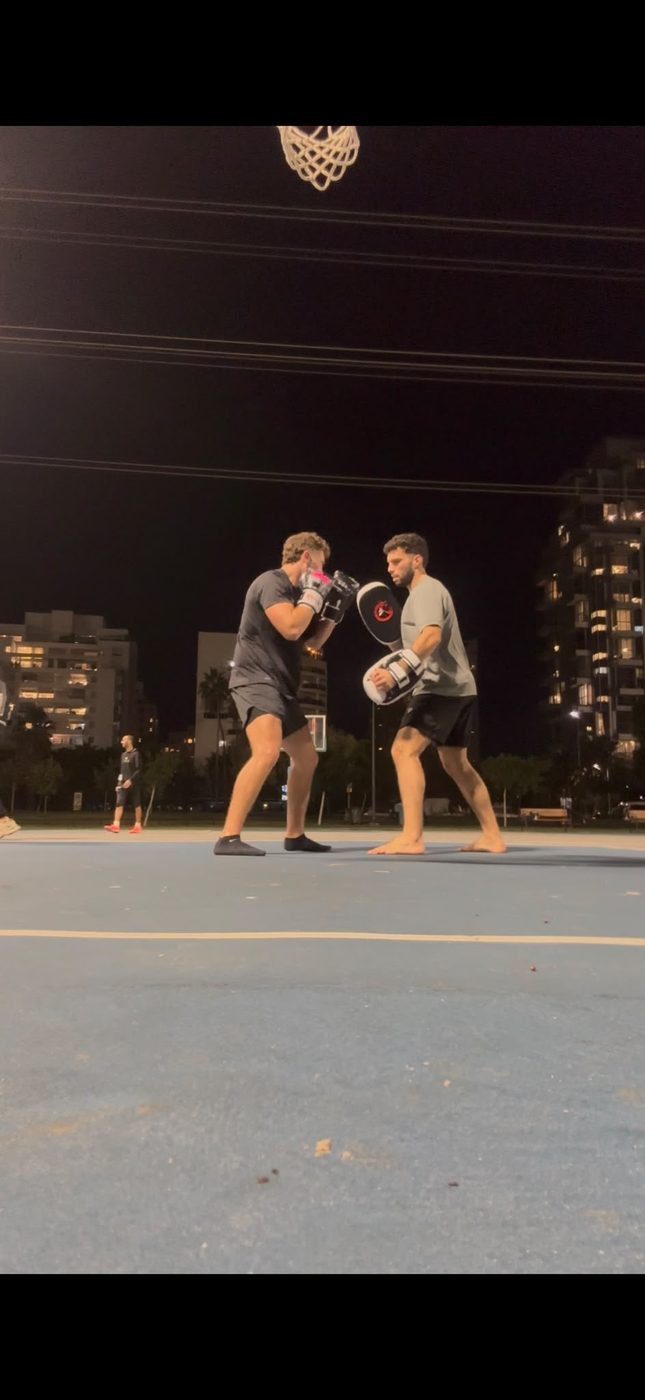
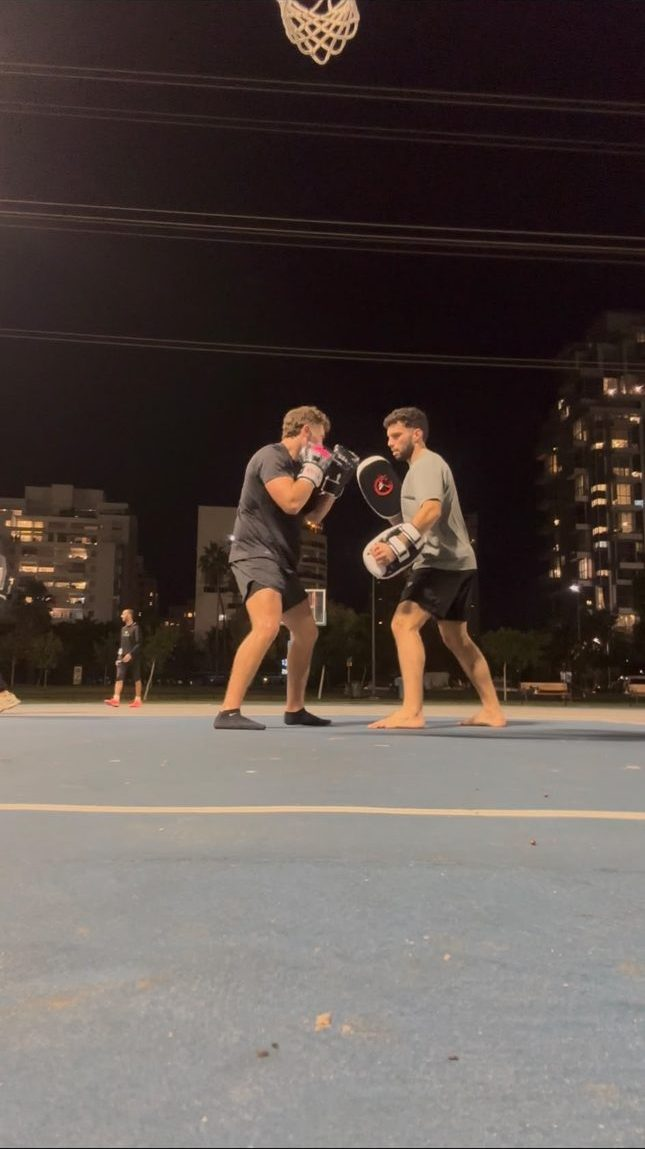
Fix black bars in gallery photos and foreground image sizing
Two compounding issues, both now confirmed and fixed:

1. Nine of the twenty photos (all 645x1400, clearly frames exported
   from the same story/video source) had solid black letterbox bars
   baked directly into the image pixels -- not a rendering issue, the
   source files themselves had it. Auto-detected the bars (near-zero
   mean row brightness at the edges) and cropped them out of each
   affected file.

2. The foreground photo layer (object-fit:contain, on top of the
   blurred backdrop) was position:relative, making it a flex item of
   the column-flex .gallery-slide -- align-items:center sizes flex
   items to content in the cross axis rather than stretching by
   default, so its box came out ~13% smaller than the frame instead of
   filling it exactly like the backdrop layer does. Made it
   position:absolute + inset:0, matching the backdrop's approach and
   removing it from flex layout entirely, so both layers are always
   pixel-identical in size regardless of any flex quirk.

Verified: inspected computed styles/rects directly rather than relying
on assumptions, confirmed a real screen-recorded source photo had the
bars by opening it directly, re-verified full touch/click regression
suite (gallery buttons, swipe both directions, tap, reviews swipe)
still passes.

diff --git a/css/style.css b/css/style.css
@@ -454,10 +454,13 @@ ul{ list-style:none; margin:0; padding:0; }
   z-index:0;
 }
 .gallery-slide img:not(.gallery-slide-bg){
-  position:relative;
+  position:absolute;
+  inset:0;
   z-index:1;
   width:100%;
   height:100%;
+  max-width:none;
+  max-height:none;
   object-fit:contain;
 }
 .gallery-nav{
